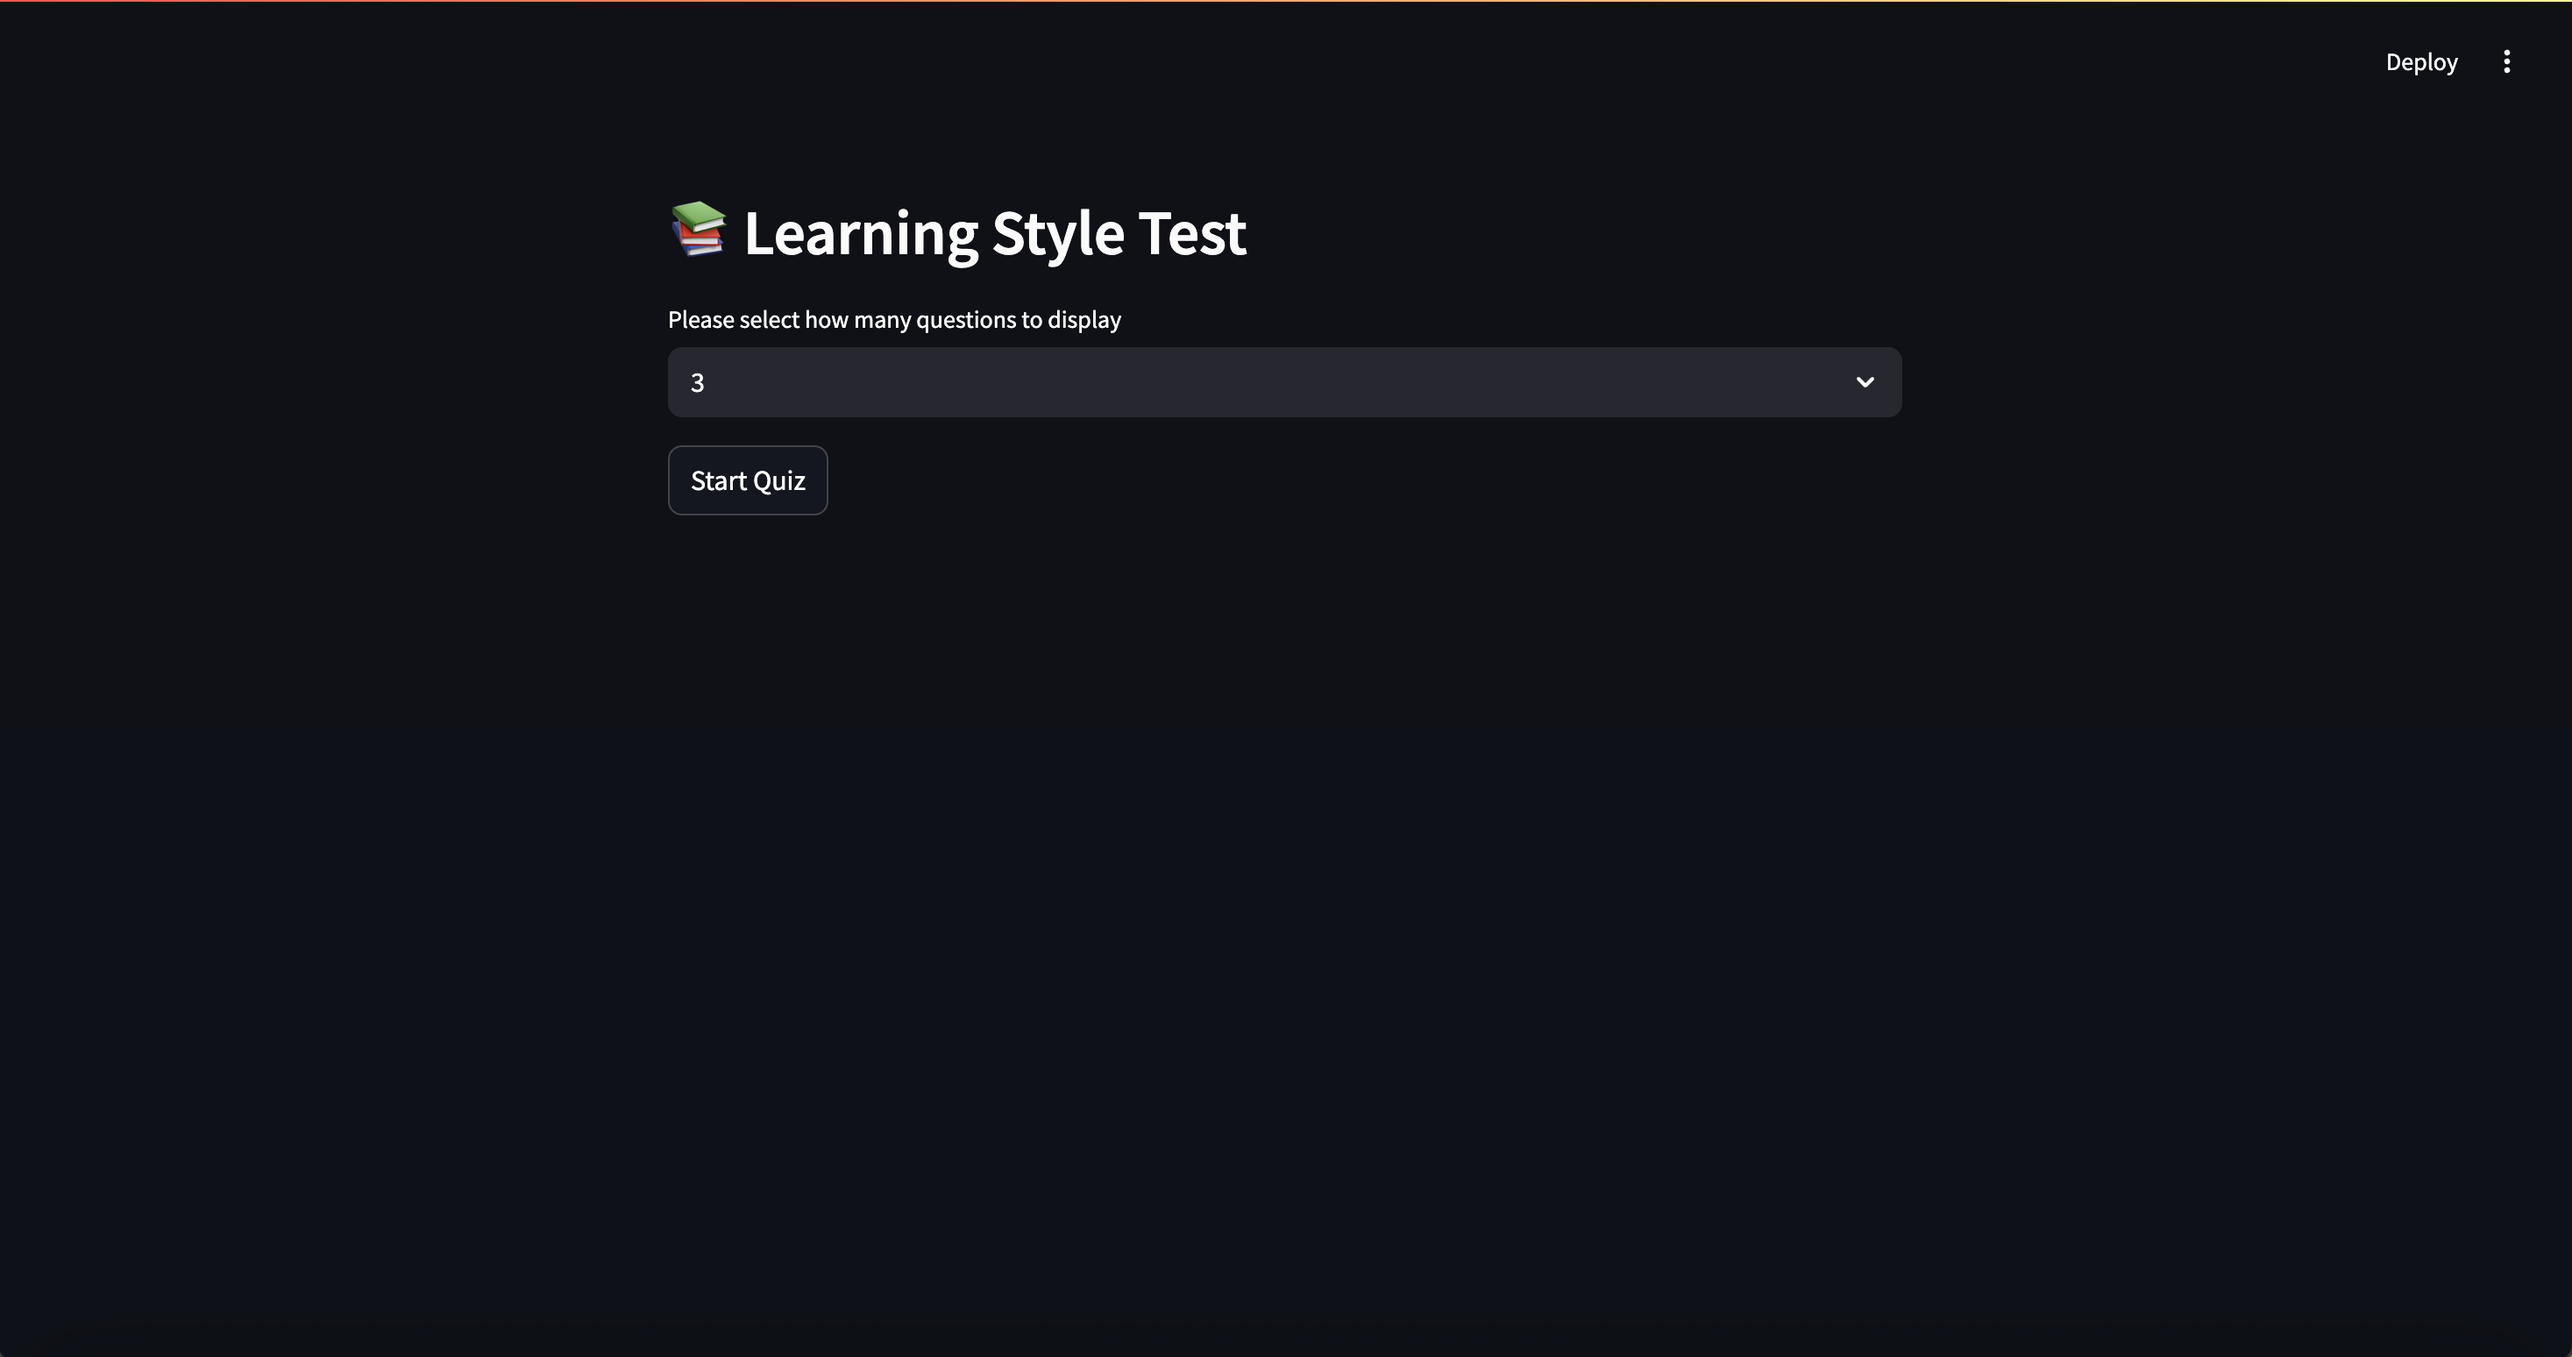
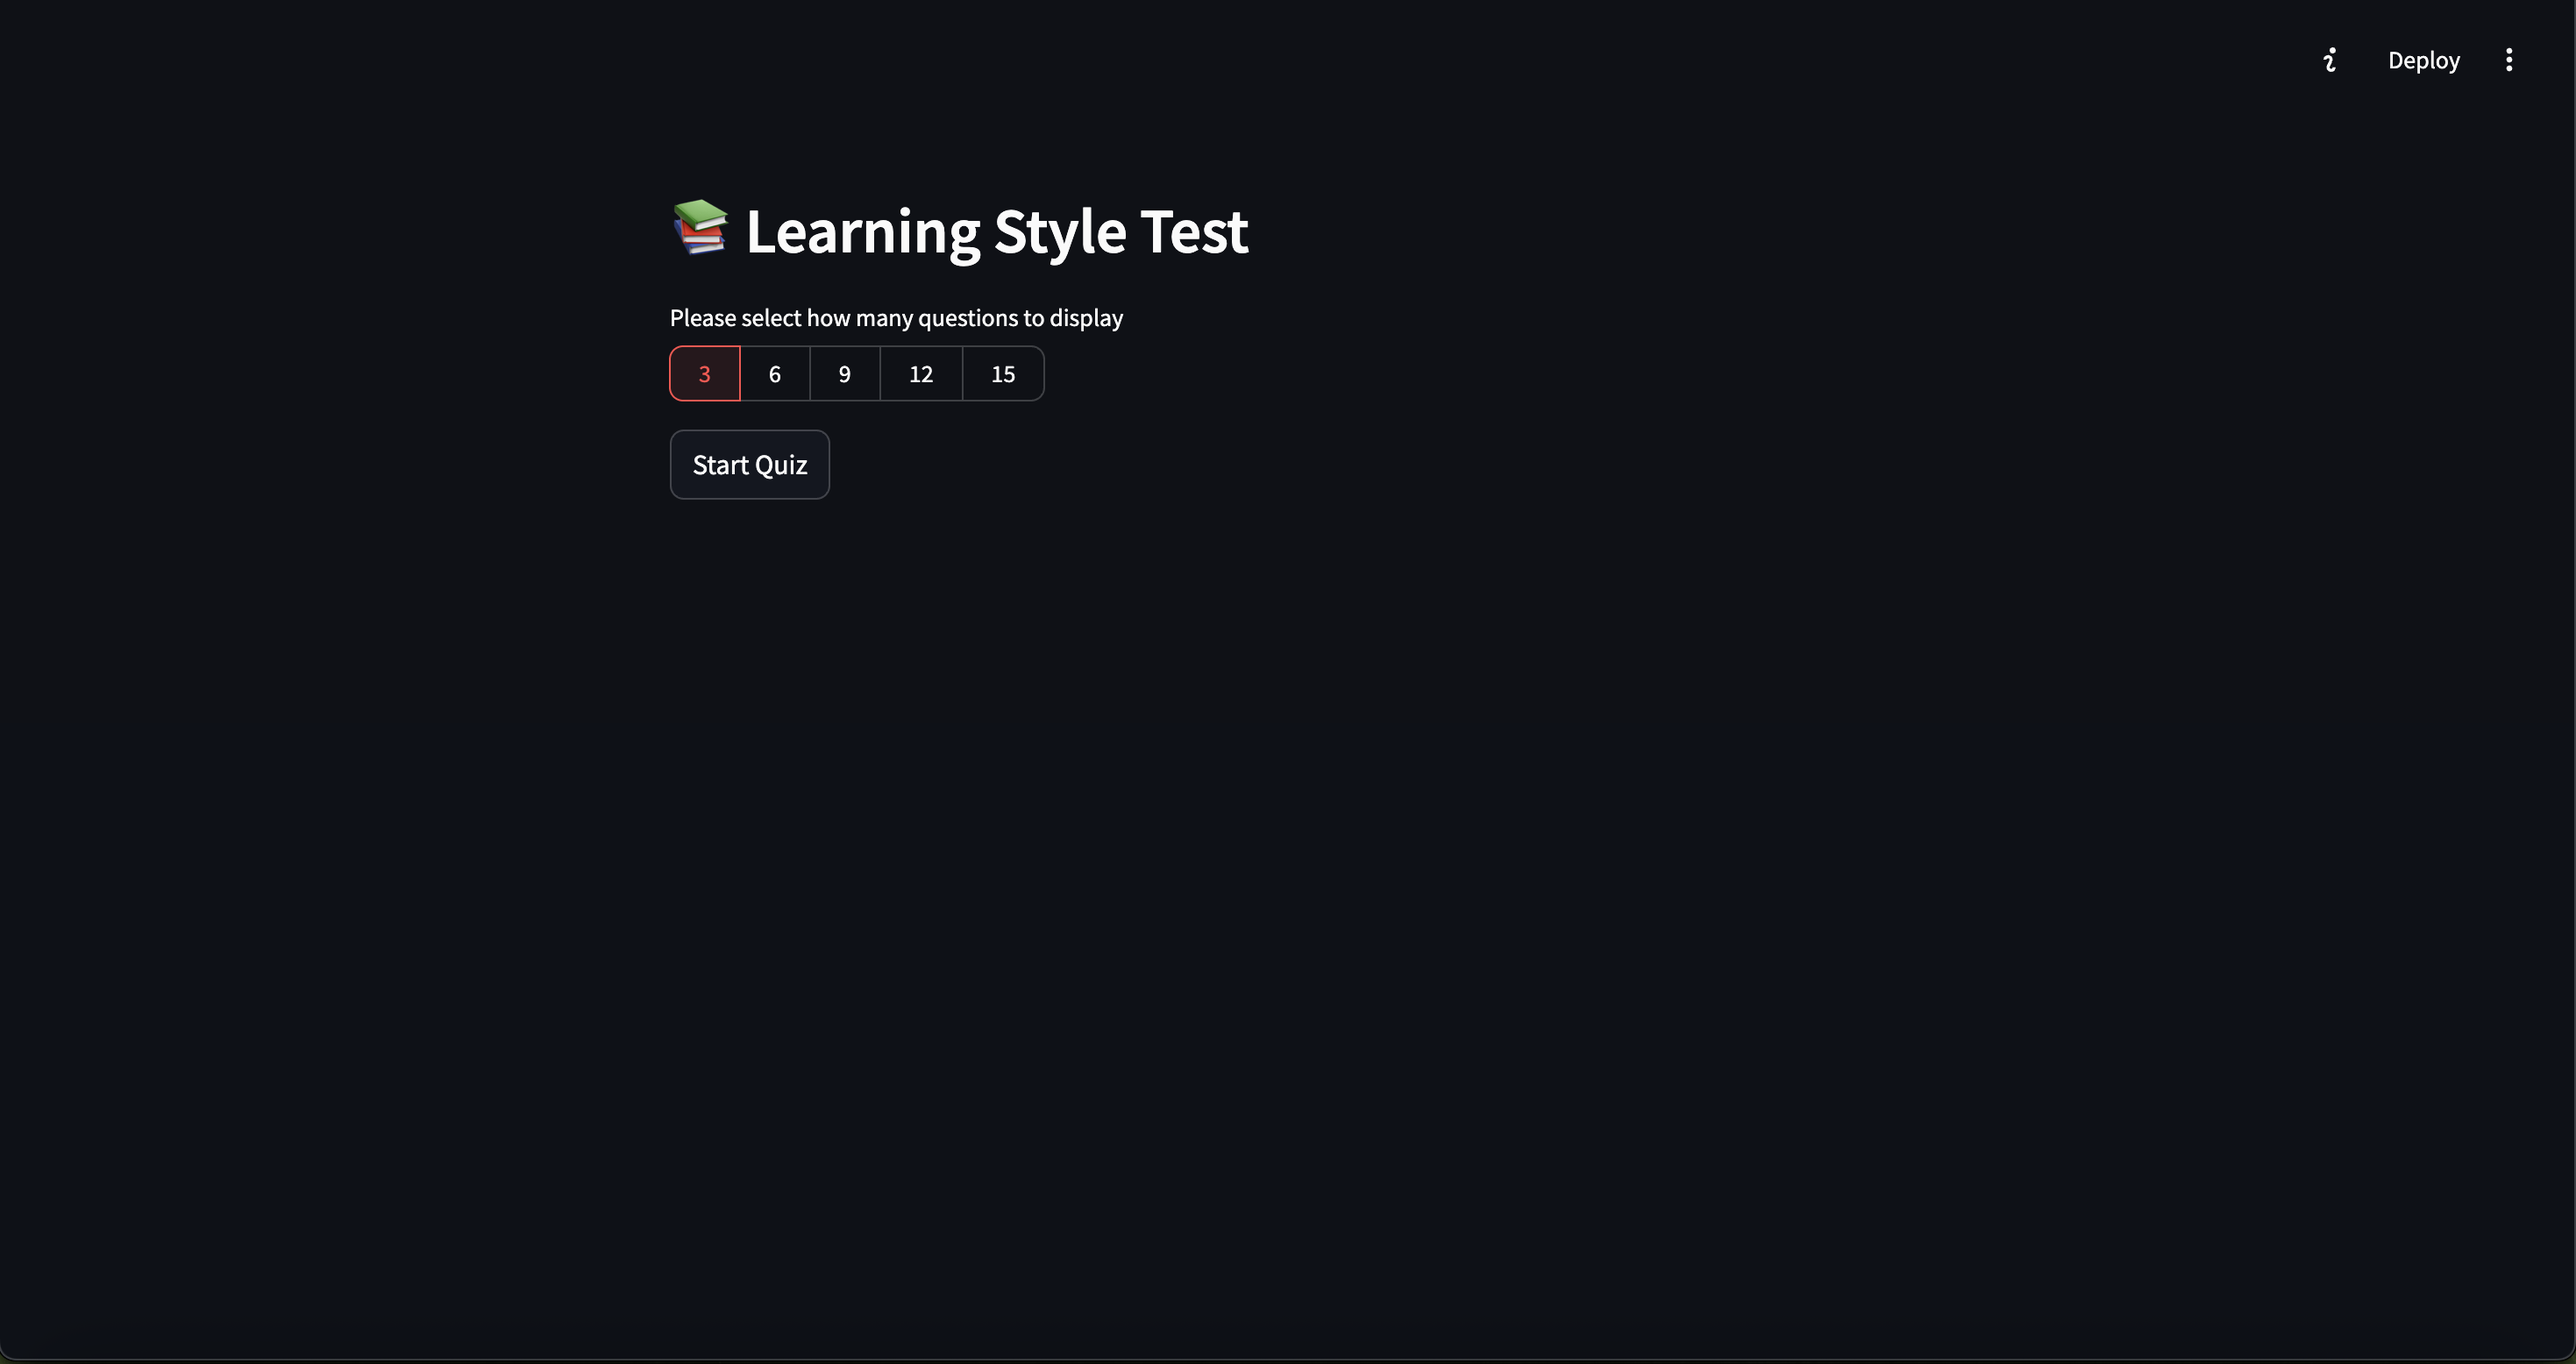
Update README.md part 2

diff --git a/README.md b/README.md
@@ -2,19 +2,19 @@
 
 ### Table of Contents
 
-- [fun_project_1_REAPYTHON1SMAGM](#fun_project_1_reapython1smagm)
-  - [Table of Contents](#table-of-contents)
-  - [Project Description](#project-description)
-  - [How to Setup Project](#how-to-setup-project)
-  - [Usage](#usage)
-  - [Features](#features)
-  - [Demo](#demo)
-    - [Starting the App](#starting-the-app)
-    - [Unanswered Questions](#unanswered-questions)
-    - [Equal Value](#equal-value)
-    - [Visual Learning Style](#visual-learning-style)
-    - [Auditory Learning Style](#auditory-learning-style)
-    - [Kinesthetic Learning Style](#kinesthetic-learning-style)
+- [fun\_project\_1\_REAPYTHON1SMAGM](#fun_project_1_reapython1smagm)
+    - [Table of Contents](#table-of-contents)
+    - [Project Description](#project-description)
+    - [How to Setup Project](#how-to-setup-project)
+    - [Usage](#usage)
+    - [Features](#features)
+    - [Demo](#demo)
+      - [Starting the App](#starting-the-app)
+      - [Unanswered Questions](#unanswered-questions)
+      - [Equal Value](#equal-value)
+      - [Visual Learning Style](#visual-learning-style)
+      - [Auditory Learning Style](#auditory-learning-style)
+      - [Kinesthetic Learning Style](#kinesthetic-learning-style)
 
 ### Project Description
 
@@ -66,14 +66,19 @@ In this project the features includes:
 
 #### Starting the App
 
-![Screenshot](screenshots/Select%20Box%20Choices.png) We can select the how many
-questions we displayed ![Screenshot](screenshots/How%20to%20Start%20Quiz.png)
-Click the button "Start Quiz" to start.
+![Screenshot](screenshots/Initial%20State.png)
+
+We can select the how many questions we displayed
+
+![Screenshot](screenshots/How%20to%20Start%20Quiz.png)
+
+Click the button **"Start Quiz"** to start.
 
 #### Unanswered Questions
 
-![Screenshot](screenshots/Unanswered%20Question.png) Click "Calculate Results"
-button
+![Screenshot](screenshots/Unanswered%20Question.png)
+
+Click **"Calculate Results"** button
 
 ![Screenshot](screenshots/Unanswered%20Question%20Result.png)
 
@@ -81,9 +86,9 @@ button
 
 ![Screenshot](screenshots/Equal%20Value%20Answer.png)
 
-- Click "Calculate Results" button
-- This condition happens when score of "Visual", "Auditory" and "Kinesthetic"
-  value are equal to each other
+- Click **"Calculate Results"** button
+- This condition is triggered when two or more learning styles have the same
+  highest score (Visual, Auditory, or Kinesthetic).
 
 ![Screenshot](screenshots/Equal%20Value%20Result.png)
 
@@ -91,8 +96,8 @@ button
 
 ![Screenshot](screenshots/Visual%20Answer.png)
 
-- Click "Calculate Results" button
-- This condition happens when score of "Visual" (the first choice) is more
+- Click **"Calculate Results"** button
+- This condition happens when score of **"Visual"** (the first choice) is more
   dominant than the other
 
 ![Screenshot](screenshots/Visual%20Result.png)
@@ -101,9 +106,9 @@ button
 
 ![Screenshot](screenshots/Auditory%20Answer.png)
 
-- Click "Calculate Results" button
-- This condition happens when score of "Auditory" (the second choice) is more
-  dominant than the other
+- Click **"Calculate Results"** button
+- This condition happens when score of **"Auditory"** (the second choice) is
+  more dominant than the other
 
 ![Screenshot](screenshots/Auditory%20Result.png)
 
@@ -111,8 +116,8 @@ button
 
 ![Screenshot](screenshots/Kinesthetic%20Answer.png)
 
-- Click "Calculate Results" button
-- This condition happens when score of "Kinesthetic" (the third choice) is more
-  dominant than the other
+- Click **"Calculate Results"** button
+- This condition happens when score of **"Kinesthetic"** (the third choice) is
+  more dominant than the other
 
 ![Screenshot](screenshots/Kinesthetic%20Result.png)
